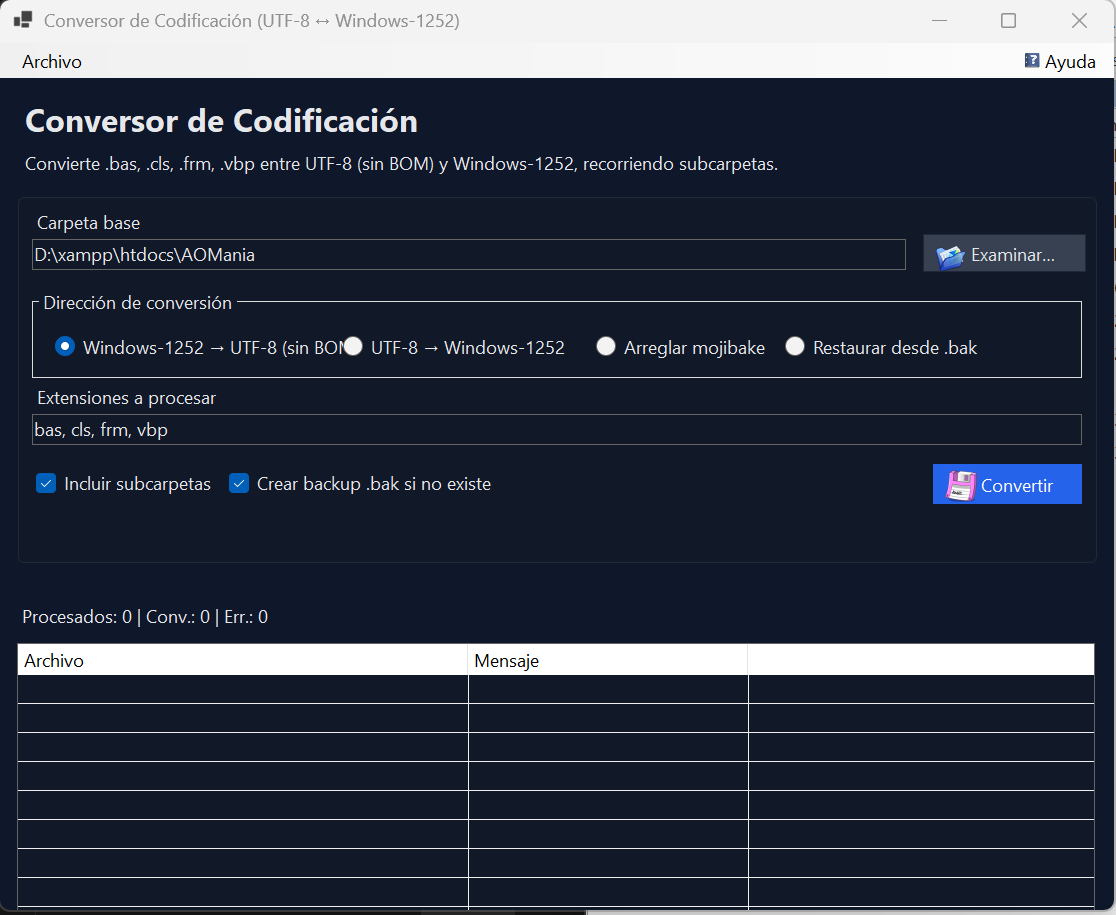
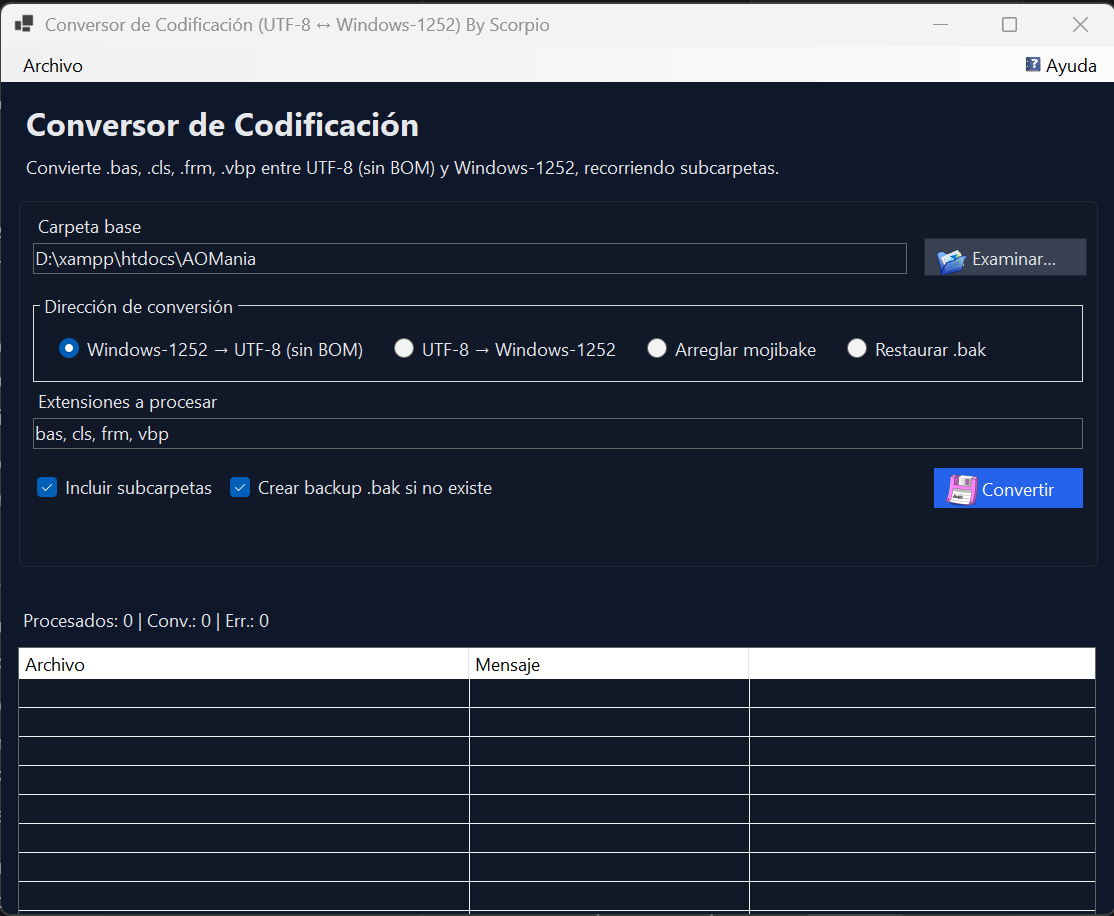
fix(winforms): ajustar layout de radio botones con FlowLayoutPanel y márgenes compactos; abreviar 'Restaurar .bak'\ndocs: actualizar captura .NET en README

diff --git a/ConversorCodificacion.Win/Form1.Designer.cs b/ConversorCodificacion.Win/Form1.Designer.cs
@@ -30,6 +30,7 @@ partial class Form1
     private ConversorCodificacion.Win.Controles.PanelCard pnlCard;
     private System.Windows.Forms.TableLayoutPanel tblCard;
     private System.Windows.Forms.FlowLayoutPanel flpChecks;
+    private System.Windows.Forms.FlowLayoutPanel flpDireccion;
     private ConversorCodificacion.Win.Controles.ProgressBarEx pbProgreso;
     private System.Windows.Forms.Label lblProgreso;
     private System.Windows.Forms.Panel pnlProgresoHost;
@@ -49,7 +50,7 @@ partial class Form1
     private System.Windows.Forms.ToolStripMenuItem colorRojoToolStripMenuItem;
     private System.Windows.Forms.ToolStripMenuItem colorAzulToolStripMenuItem;
     private System.Windows.Forms.ToolStripMenuItem colorCianToolStripMenuItem;
-    private System.Windows.Forms.ToolStripMenuItem colorElegirToolStripMenuItem;
+    
     private System.Windows.Forms.ToolStripMenuItem ayudaToolStripMenuItem;
     private System.Windows.Forms.ToolStripMenuItem ayudaInstruccionesToolStripMenuItem;
     private System.Windows.Forms.ToolStripMenuItem ayudaAgradecimientosToolStripMenuItem;
@@ -392,10 +393,6 @@ partial class Form1
         // 
         // grpDireccion
         // 
-        this.grpDireccion.Controls.Add(this.rbRestoreBak);
-        this.grpDireccion.Controls.Add(this.rbFixMojibake);
-        this.grpDireccion.Controls.Add(this.rbAWin1252);
-        this.grpDireccion.Controls.Add(this.rbAUtf8);
         this.grpDireccion.Location = new System.Drawing.Point(16, 70);
         this.grpDireccion.Name = "grpDireccion";
         this.grpDireccion.Size = new System.Drawing.Size(738, 56);
@@ -404,6 +401,26 @@ partial class Form1
         this.grpDireccion.Text = "Dirección de conversión";
         this.grpDireccion.Anchor = ((System.Windows.Forms.AnchorStyles)(((System.Windows.Forms.AnchorStyles.Top | System.Windows.Forms.AnchorStyles.Left)
             | System.Windows.Forms.AnchorStyles.Right)));
+
+        // flpDireccion
+        //
+        this.flpDireccion = new System.Windows.Forms.FlowLayoutPanel();
+        this.flpDireccion.Dock = System.Windows.Forms.DockStyle.Fill;
+        this.flpDireccion.AutoSize = true;
+        this.flpDireccion.AutoSizeMode = System.Windows.Forms.AutoSizeMode.GrowAndShrink;
+        this.flpDireccion.WrapContents = false;
+        this.flpDireccion.FlowDirection = System.Windows.Forms.FlowDirection.LeftToRight;
+        this.flpDireccion.Padding = new System.Windows.Forms.Padding(8, 4, 8, 4);
+        // Márgenes de los radios para separación homogénea
+        this.rbAUtf8.Margin = new System.Windows.Forms.Padding(8, 3, 8, 3);
+        this.rbAWin1252.Margin = new System.Windows.Forms.Padding(8, 3, 8, 3);
+        this.rbFixMojibake.Margin = new System.Windows.Forms.Padding(8, 3, 8, 3);
+        this.rbRestoreBak.Margin = new System.Windows.Forms.Padding(8, 3, 8, 3);
+        this.flpDireccion.Controls.Add(this.rbAUtf8);
+        this.flpDireccion.Controls.Add(this.rbAWin1252);
+        this.flpDireccion.Controls.Add(this.rbFixMojibake);
+        this.flpDireccion.Controls.Add(this.rbRestoreBak);
+        this.grpDireccion.Controls.Add(this.flpDireccion);
         // 
         // rbAUtf8
         // 
@@ -419,7 +436,7 @@ partial class Form1
         // rbAWin1252
         // 
         this.rbAWin1252.AutoSize = true;
-        this.rbAWin1252.Location = new System.Drawing.Point(218, 26);
+        this.rbAWin1252.Location = new System.Drawing.Point(250, 26);
         this.rbAWin1252.Name = "rbAWin1252";
         this.rbAWin1252.Size = new System.Drawing.Size(149, 19);
         this.rbAWin1252.TabIndex = 1;
@@ -430,7 +447,7 @@ partial class Form1
         // rbFixMojibake
         // 
         this.rbFixMojibake.AutoSize = true;
-        this.rbFixMojibake.Location = new System.Drawing.Point(395, 26);
+        this.rbFixMojibake.Location = new System.Drawing.Point(470, 26);
         this.rbFixMojibake.Name = "rbFixMojibake";
         this.rbFixMojibake.Size = new System.Drawing.Size(111, 19);
         this.rbFixMojibake.TabIndex = 2;
@@ -441,12 +458,12 @@ partial class Form1
         // rbRestoreBak
         // 
         this.rbRestoreBak.AutoSize = true;
-        this.rbRestoreBak.Location = new System.Drawing.Point(527, 26);
+        this.rbRestoreBak.Location = new System.Drawing.Point(610, 26);
         this.rbRestoreBak.Name = "rbRestoreBak";
         this.rbRestoreBak.Size = new System.Drawing.Size(119, 19);
         this.rbRestoreBak.TabIndex = 3;
         this.rbRestoreBak.TabStop = true;
-        this.rbRestoreBak.Text = "Restaurar desde .bak";
+        this.rbRestoreBak.Text = "Restaurar .bak";
         this.rbRestoreBak.UseVisualStyleBackColor = true;
         // 
         // lblExtensiones
@@ -553,7 +570,7 @@ partial class Form1
         this.MinimumSize = new System.Drawing.Size(796, 489);
         this.Name = "Form1";
         this.StartPosition = System.Windows.Forms.FormStartPosition.CenterScreen;
-        this.Text = "Conversor de Codificación (UTF-8 ↔ Windows-1252)";
+        this.Text = "Conversor de Codificación (UTF-8 ↔ Windows-1252) By Scorpio";
         this.grpDireccion.ResumeLayout(false);
         this.grpDireccion.PerformLayout();
         this.ResumeLayout(false);
